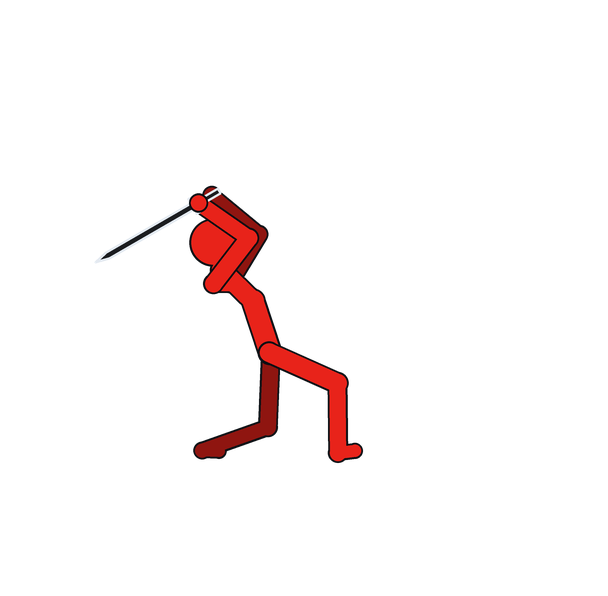
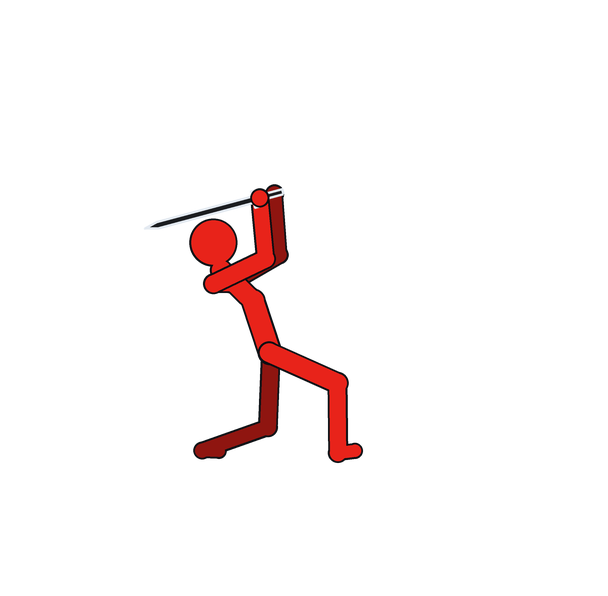
swordsman_rig attack_normal: fix grip, elbows, back and gaze
- grip: the strike and follow-through had the blade leaving the fists on
  the little-finger side; every key now keeps it on the thumb side, and
  the generator refuses any frame that breaks this (grip_fault)
- elbows: no chicken wings or backward bends; enforced by elbow_fault
- wind-up: hands lifted above the head so the forearms no longer cross
  the face
- strike / follow-through: upper back curls over the cut, head follows
  the curve with the eyes down on the blade instead of looking up
- swoosh only covers the end of the swing so it no longer runs through
  the body

Claude-Session: https://claude.ai/code/session_01KcN8mqD4ukZVyaEEP9AwAj

Changed region(s): [[0.1875, 0.302, 0.5, 0.4832], [0.1562, 0.4228, 0.1875, 0.453]]

diff --git a/tools/fx/swordsman_rig_poses.py b/tools/fx/swordsman_rig_poses.py
@@ -118,6 +118,38 @@ def solve(k):
     return p, j, toes, err
 
 
+GRIP_REL = (-115.0, -10.0)
+
+
+def grip_fault(j):
+    """Both fists close on the handle with the blade leaving on the thumb
+    side: measured from each forearm (elbow -> hand), the blade must turn
+    10..115 degrees toward the thumb (counter-clockwise on screen, facing
+    right).  A positive angle means the blade comes out under the little
+    finger, which no grip allows."""
+    blade = j["wang"] - 90
+    for side in ("R", "L"):
+        el, ha = j["el" + side], j["ha" + side]
+        fore = math.atan2(ha[1] - el[1], ha[0] - el[0]) / D
+        rel = (blade - fore + 180) % 360 - 180
+        if not GRIP_REL[0] <= rel <= GRIP_REL[1]:
+            return "blade leaves the %s fist at %+.0f deg (allowed %+.0f..%+.0f)" % (
+                "near" if side == "R" else "far", rel, GRIP_REL[0], GRIP_REL[1])
+    return ""
+
+
+def elbow_fault(j):
+    """Elbows only hinge one way: the forearm folds toward the front of the
+    upper arm (clockwise on screen, facing right).  Folding the other way is
+    a chicken wing / hyperextension."""
+    for side in ("R", "L"):
+        sh, el, ha = j["sh" + side], j["el" + side], j["ha" + side]
+        u = (el[0] - sh[0], el[1] - sh[1]); f = (ha[0] - el[0], ha[1] - el[1])
+        if u[0] * f[1] - u[1] * f[0] > 0.05 * math.hypot(*u) * math.hypot(*f):
+            return "%s elbow bends backwards" % ("near" if side == "R" else "far")
+    return ""
+
+
 def tf(q, s=1.0):
     return ((ORIGIN[0] + q[0] * PPU) * s, (GROUND_Y + q[1] * PPU) * s)
 
@@ -197,17 +229,18 @@ K = {
     # ANTICIPATION: everything loaded backwards.  Weight sunk on the back
     # leg, back arched, chest turned away, sword dropped behind the back;
     # the head stays level on the target.
-    "windup":  dict(hip=(-20, -62), sp=-18, sp2=-28, hd=30, grip=(-62, -150), blade=150, open=-7,
+    "windup":  dict(hip=(-20, -62), sp=-18, sp2=-28, hd=30, grip=(-26, -153), blade=165, open=-7,
                     back_lift=8, elbow="fwd"),
-    # STRIKE (contact): front foot stepped in, back leg driven straight, one
-    # line of action from the back heel through hip and spine into long
-    # arms; chest opened to the viewer, blade biting forward-down.
-    "strike":  dict(hip=(6, -46), sp=55, sp2=4, hd=-45, grip=(120, -60), blade=405, open=3,
-                    front=(40, 0), back=(-64, 0), back_lift=55, elbow="down"),
-    # FOLLOW-THROUGH: the cut carries on to point straight down, the back
-    # folds over it, hips stay low, arms stay long.
-    "follow":  dict(hip=(10, -44), sp=60, sp2=14, hd=-36, grip=(124, -70), blade=448, open=3,
-                    front=(40, 0), back=(-64, 0), back_lift=60, elbow="down"),
+    # STRIKE (contact): front foot stepped in, back leg driven straight, the
+    # back rounds over the cut (upper spine curls 36 deg past the lower),
+    # head follows the curve with the eyes down on the blade, long arms
+    # reaching forward-down; the blade runs on from the forearms.
+    "strike":  dict(hip=(0, -58), sp=34, sp2=36, hd=-14, grip=(95.1, -38.0), blade=374, open=3,
+                    front=(36, 0), back=(-68, 0), back_lift=55, elbow="down"),
+    # FOLLOW-THROUGH: the cut is drawn through to the front hip on long arms,
+    # upper back still curled over it, blade angled forward-down.
+    "follow":  dict(hip=(-4, -60), sp=20, sp2=30, hd=-14, grip=(55.2, -35.8), blade=389, open=3,
+                    front=(36, 0), back=(-68, 0), back_lift=60, elbow="down"),
     # RECOVERY: rises and draws the front foot back, blade up into guard.
     "recover": dict(hip=(-8, -70), sp=16, sp2=-6, hd=-4, grip=(30, -110), blade=300, open=1,
                     back_lift=26, elbow="down"),
@@ -248,7 +281,7 @@ ACTIONS = {
         ("strike", "strike", 0.0),
         ("follow", "follow", 0.0),
         ("recover", "recover", 0.0),
-    ], smear={1: (0, 0.45, 125), 2: (1, 0.0, 70)}),
+    ], smear={1: (0, 0.65, 125), 2: (1, 0.0, 70)}),
 }
 
 
@@ -267,6 +300,10 @@ def build(action):
     worst = max(s[3] for s in solved)
     if worst > 0.5:
         raise SystemExit("IK target out of reach (%.2f units)" % worst)
+    for n, (_p, j, _t, _e) in enumerate(solved):
+        bad = grip_fault(j) or elbow_fault(j)
+        if bad:
+            raise SystemExit("frame %d: %s" % (n + 1, bad))
     frames, anchors = [], {}
     for i, (p, j, toes, _e) in enumerate(solved):
         smear = None
